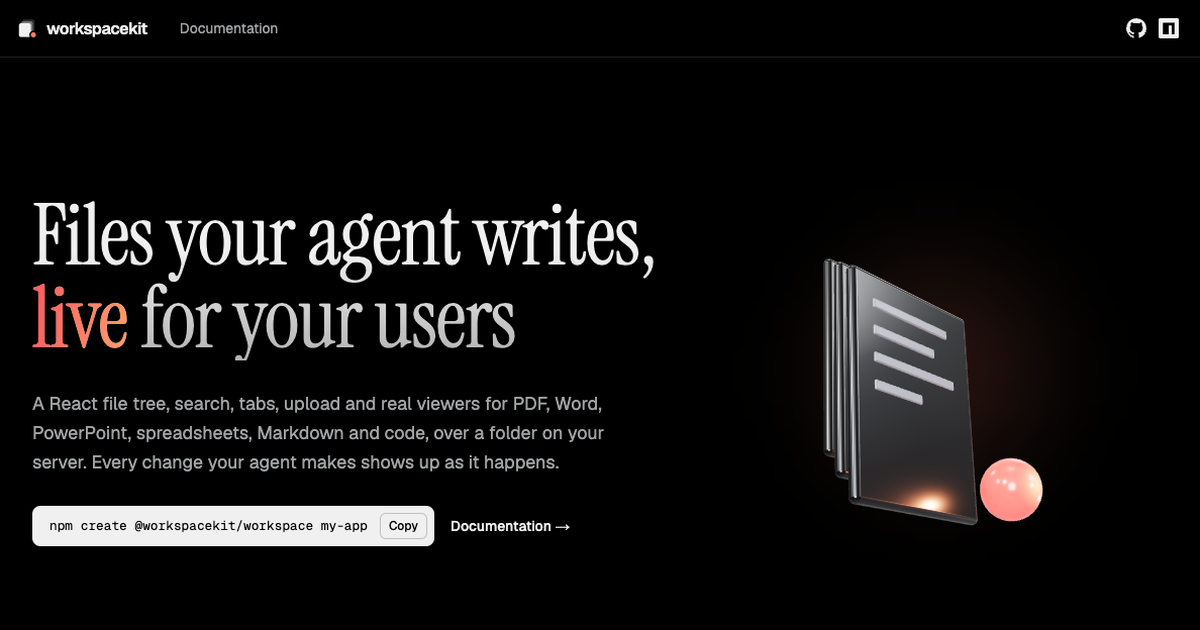
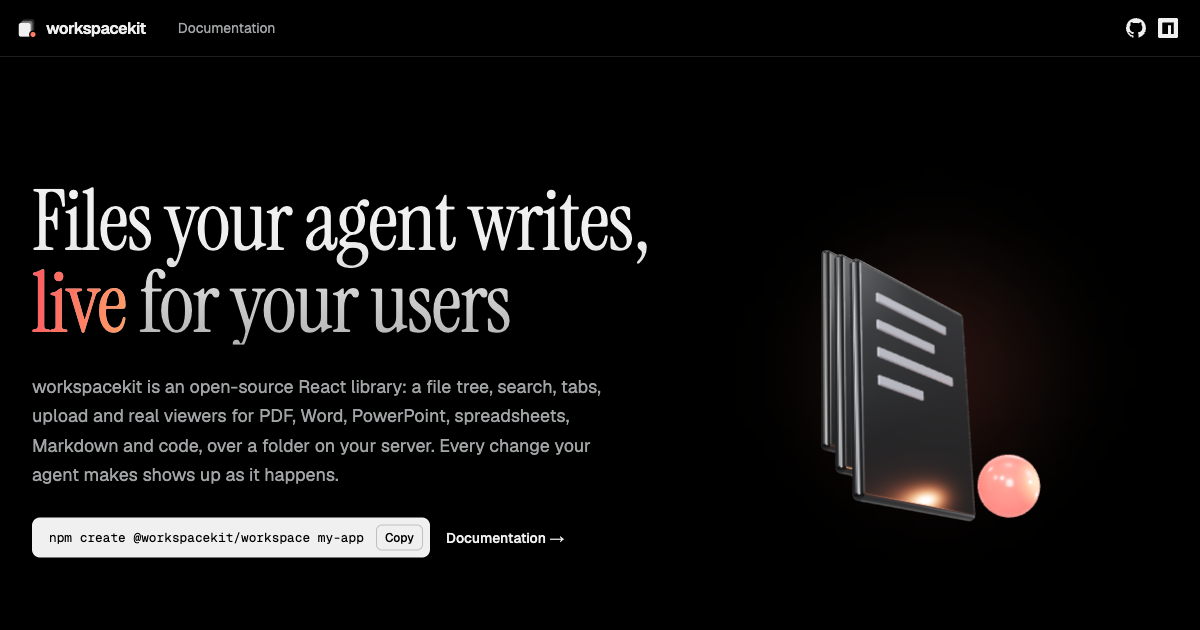
feat(docs): answer-engine signals on the site and in llms.txt
- Name the product in the hero's first sentence and in llms.txt, so answers can quote what workspacekit is.
- FAQ: add "What is workspacekit?", make each answer stand alone, and publish the questions as FAQPage
  structured data.
- Mark the package as free SoftwareApplication data and link llms.txt from every page's head.
- Refresh the social image for the new hero copy.

diff --git a/apps/docs/components/landing/Faq.tsx b/apps/docs/components/landing/Faq.tsx
@@ -2,6 +2,11 @@ import { Label, Title } from './Type';
 
 const QUESTIONS: readonly { question: string; answer: string }[] = [
   {
+    question: 'What is workspacekit?',
+    answer:
+      'An open-source React library that shows the files an AI agent writes: a file tree, search, tabs, upload and viewers for PDF, Word, PowerPoint, spreadsheets, Markdown and code, over a folder on your server, updating live as the agent works.',
+  },
+  {
     question: 'Who is it for?',
     answer:
       'Teams building agent apps in React, where people need to see, open and manage the files an agent writes: reports, spreadsheets, documents, code.',
@@ -9,7 +14,7 @@ const QUESTIONS: readonly { question: string; answer: string }[] = [
   {
     question: 'Do I need Next.js?',
     answer:
-      'No. The browser part is a React component, and the handler runs on any server that speaks the Fetch API: Next.js, Remix, Hono or plain Node. There is a Vite guide too.',
+      'No. The browser part of workspacekit is a React component, and the handler runs on any server that speaks the Fetch API: Next.js, Remix, Hono or plain Node. There is a Vite guide too.',
   },
   {
     question: 'Where do the files live?',
@@ -19,7 +24,7 @@ const QUESTIONS: readonly { question: string; answer: string }[] = [
   {
     question: 'How does my agent connect to it?',
     answer:
-      'It does not have to. The agent writes to the folder as it already does, and the workspace sees the change and shows it.',
+      'It does not have to. The agent writes to the folder as it already does, and workspacekit sees the change and shows it within a moment.',
   },
   {
     question: 'Can people see files they should not?',
@@ -28,9 +33,20 @@ const QUESTIONS: readonly { question: string; answer: string }[] = [
   },
   {
     question: 'What does it cost?',
-    answer: 'Nothing. It is open source under the Apache-2.0 licence, with no account and no hosted service.',
+    answer:
+      'Nothing. workspacekit is open source under the Apache-2.0 licence, with no account and no hosted service.',
   },
 ];
+
+const FAQ_STRUCTURED_DATA = JSON.stringify({
+  '@context': 'https://schema.org',
+  '@type': 'FAQPage',
+  mainEntity: QUESTIONS.map((item) => ({
+    '@type': 'Question',
+    name: item.question,
+    acceptedAnswer: { '@type': 'Answer', text: item.answer },
+  })),
+});
 
 /**
  * Short answers to the questions people ask before trying it.
@@ -41,6 +57,7 @@ const QUESTIONS: readonly { question: string; answer: string }[] = [
 export function Faq(): React.JSX.Element {
   return (
     <section aria-labelledby="faq-heading" className="border-t border-fd-border">
+      <script type="application/ld+json" dangerouslySetInnerHTML={{ __html: FAQ_STRUCTURED_DATA }} />
       <div className="mx-auto grid w-full max-w-7xl gap-14 px-5 py-28 sm:px-8 lg:grid-cols-[minmax(0,0.8fr)_minmax(0,1.2fr)]">
         <div className="flex flex-col gap-6">
           <Label>/faq</Label>

diff --git a/apps/docs/components/landing/Hero.tsx b/apps/docs/components/landing/Hero.tsx
@@ -56,8 +56,9 @@ function Pitch(): React.JSX.Element {
         Files your agent writes, <span className="wk-sunset-text">live</span> for your users
       </h1>
       <p style={delay(120)} className="wk-rise max-w-[48ch] text-lg leading-relaxed text-fd-muted-foreground">
-        A React file tree, search, tabs, upload and real viewers for PDF, Word, PowerPoint, spreadsheets,
-        Markdown and code, over a folder on your server. Every change your agent makes shows up as it happens.
+        workspacekit is an open-source React library: a file tree, search, tabs, upload and real viewers for
+        PDF, Word, PowerPoint, spreadsheets, Markdown and code, over a folder on your server. Every change
+        your agent makes shows up as it happens.
       </p>
       <div style={delay(240)} className="wk-rise flex flex-col items-start gap-4 sm:flex-row sm:items-center">
         <InstallCommand tone="dark" command={STARTER} />

diff --git a/apps/docs/app/(home)/page.tsx b/apps/docs/app/(home)/page.tsx
@@ -20,7 +20,11 @@ export const metadata: Metadata = {
 
 const STRUCTURED_DATA = JSON.stringify({
   '@context': 'https://schema.org',
-  '@type': 'SoftwareSourceCode',
+  '@type': ['SoftwareSourceCode', 'SoftwareApplication'],
+  applicationCategory: 'DeveloperApplication',
+  operatingSystem: 'Any',
+  isAccessibleForFree: true,
+  offers: { '@type': 'Offer', price: '0', priceCurrency: 'USD' },
   name: 'workspacekit',
   description:
     'A React file workspace for agent apps: file tree, search, tabs, upload and viewers over a directory on your server, with live updates.',

diff --git a/apps/docs/app/layout.tsx b/apps/docs/app/layout.tsx
@@ -59,6 +59,9 @@ export default function RootLayout({ children }: { children: ReactNode }): React
       className={`${sans.variable} ${mono.variable} ${serif.variable}`}
       suppressHydrationWarning
     >
+      <head>
+        <link rel="alternate" type="text/markdown" title="llms.txt" href={`${SITE_URL}/llms.txt`} />
+      </head>
       <body className="flex min-h-screen flex-col">
         <RootProvider search={{ enabled: false }} theme={{ forcedTheme: 'dark', defaultTheme: 'dark' }}>
           {children}
